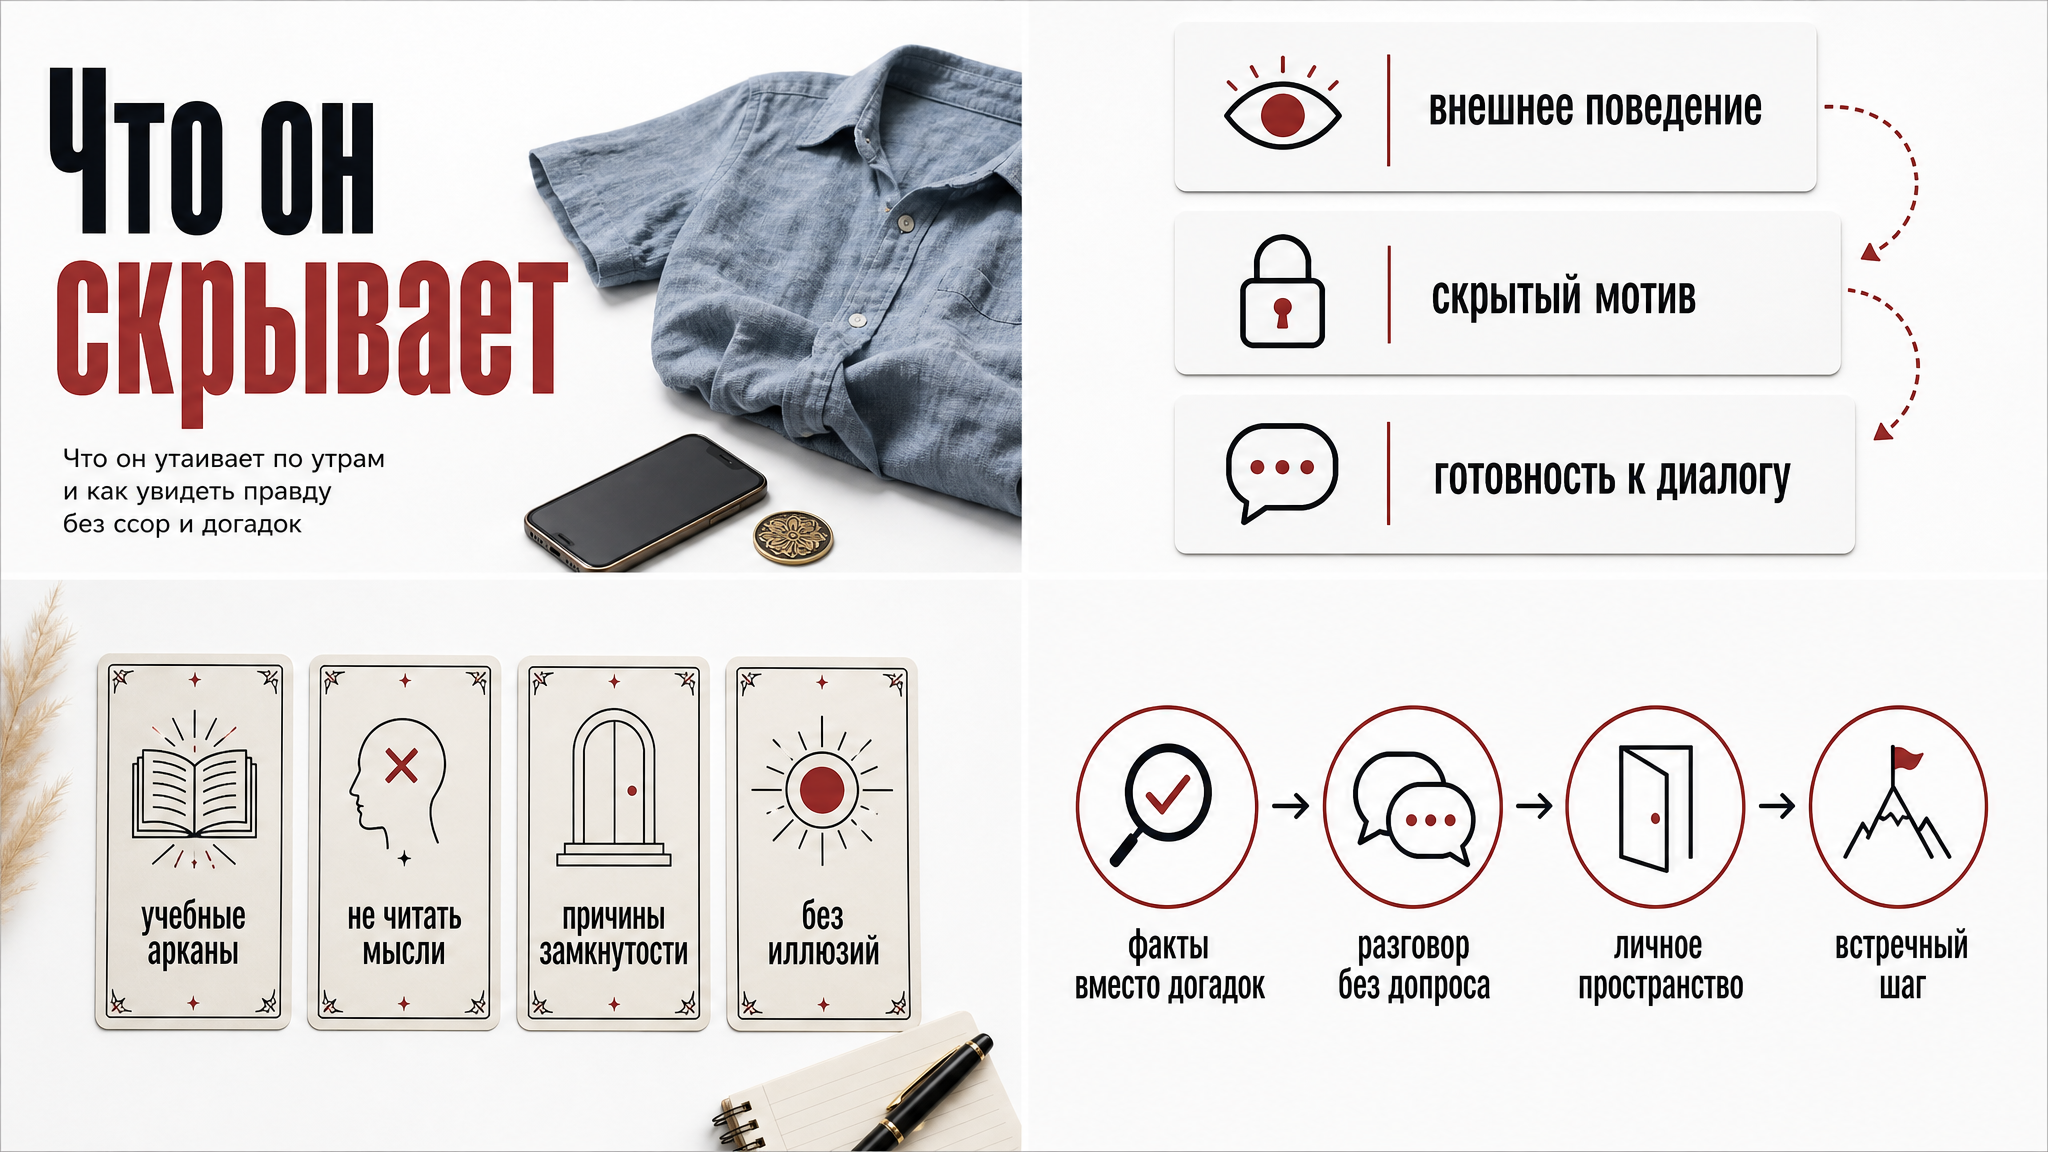
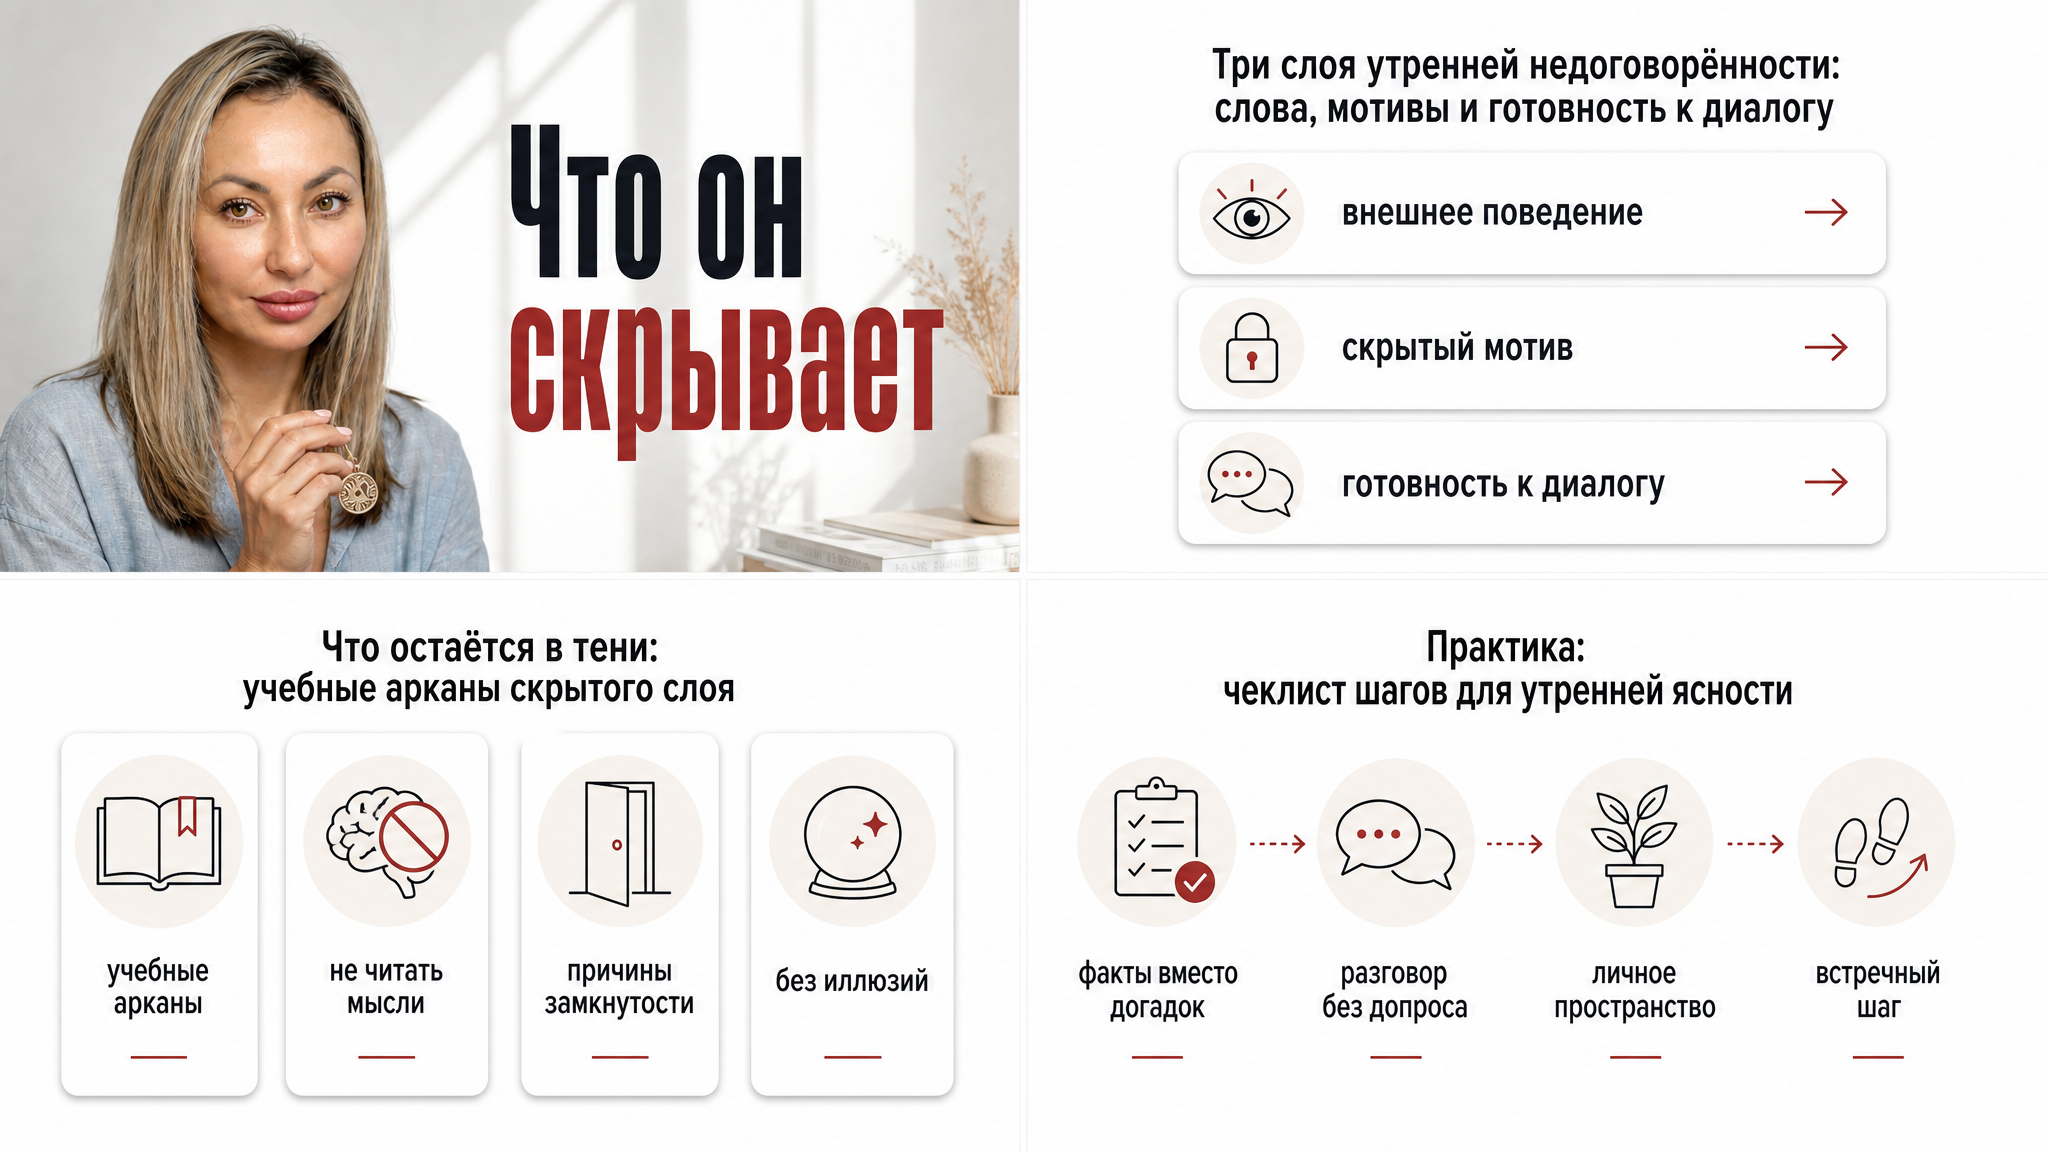
feat(B05): Director-approved cover redo with Victoria face
One new 2K canvas: host wears the linen shirt, hook unchanged, Pillow credit. No publish.

diff --git a/memory/pipeline-fix-queue.md b/memory/pipeline-fix-queue.md
@@ -46,7 +46,7 @@ category: prompt
 - Extra invented subtitle under the hook. Split cells were not crooked; owner allowed canvas redo only for crooked split, not host-miss quality.
 
 ### How the agent recovered this run
-- No second billed gen (quality-redo ban). Split PASS, inject, Pillow credit. Next run must fix first-try prompt, not PNG loop.
+- First pass: no quality-redo. Director then authorized one full canvas rebuild. Second billed gen: Victoria FACE LARGE left, she WEARS the dusty-blue linen shirt; Pillow credit applied.
 
 ### Durable fix needed before next run
 - First-try cover lock: face is the large subject; the linen shirt is worn, not a folded prop that replaces the host.
@@ -56,6 +56,35 @@ category: prompt
 - `scripts/excalibur_blog_cover_quad_prompt.py`
 - `memory/cover/blog-hero.json`
 - `memory/cover/quad-style-taro-seichas.json`
+
+### Secrets
+- none recorded
+
+### Fixer resolution
+- pending
+
+## INC-20260823-0637-cover-gutter-still-off
+status: open
+run_date: 2026-08-23
+role: excalibur-blog-cover
+topic_id: B05
+article_dir: memory/blog/articles/B05-chto-on-skryvaet-v-otnosheniyah-i-skazhet-li-pravdu
+severity: medium
+category: prompt
+
+### What went wrong
+- Director-approved one full 2K redo: host face is now on cover.png. Split still chose mechanical_center because auto gutter was `gutter_too_far_from_center` (h offset ~29px, v offset ~38px).
+- Mechanical 50/50 panels are complete (no bleed of face into inline). No third billed gen.
+
+### How the agent recovered this run
+- Kept mechanical split PASS. Wrote incident as directed after the one allowed redo.
+
+### Durable fix needed before next run
+- First-try prompt must lock thin white gutters exactly on 1024/576 and keep all panel content inside its quadrant so auto gutter can accept.
+
+### Suggested files to inspect/change
+- `scripts/excalibur_blog_cover_quad_prompt.py`
+- `scripts/excalibur_blog_cover_quad_split.py`
 
 ### Secrets
 - none recorded
